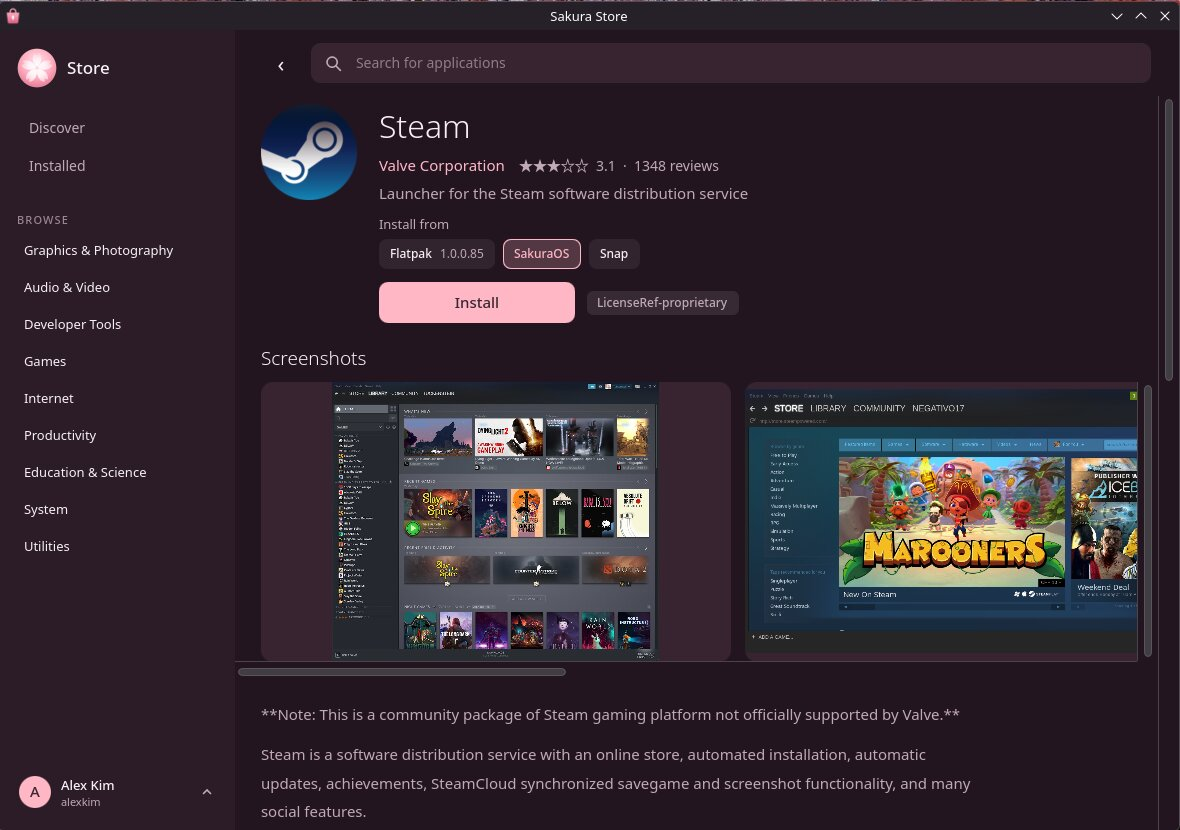
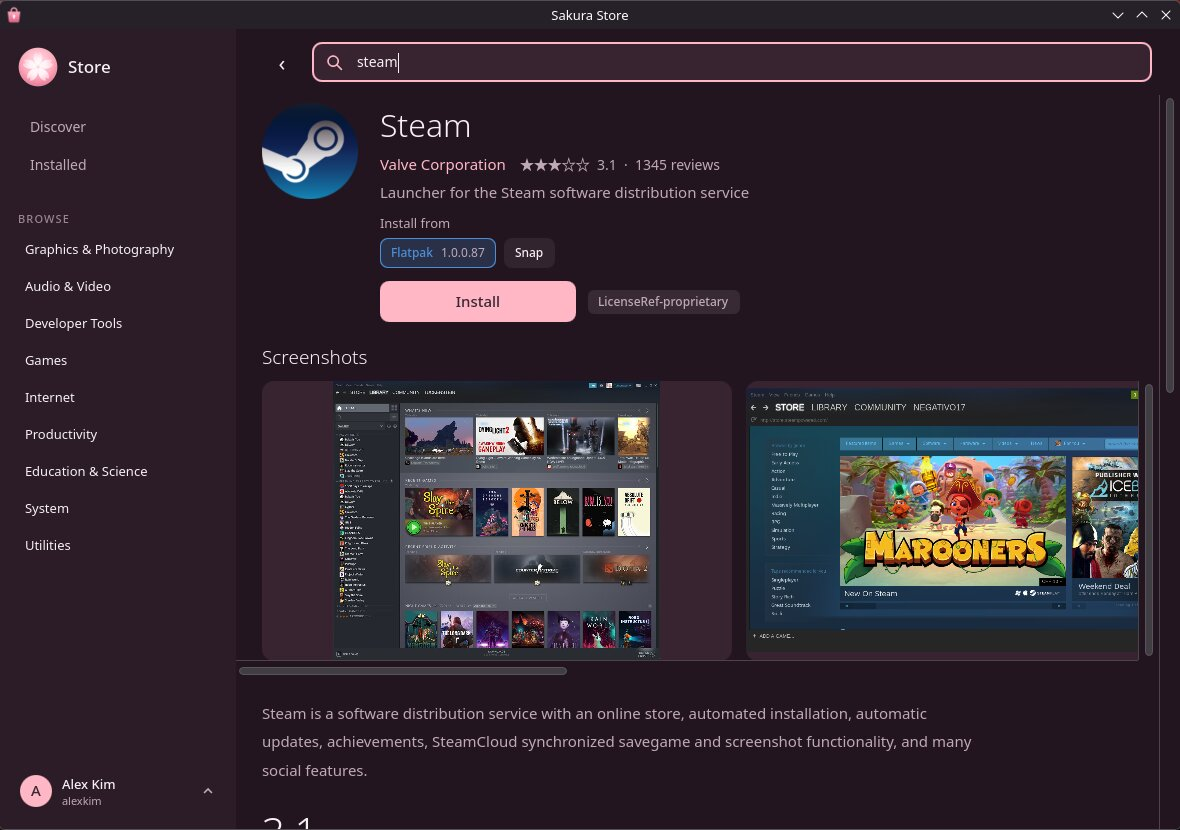
Store: one search row per app across Flathub and the Snap Store
Flathub keys an app by its reverse-DNS id and the Snap Store by a bare name,
so Steam, Spotify, VLC and every other app published in both were listed
twice. Rows now join on display name when one side has no id; two apps that
both have one stay apart. The wiki's Steam screenshot shows the store as it
now is: Flatpak selected, Snap beside it.

diff --git a/site/docs/store.html b/site/docs/store.html
@@ -25,8 +25,8 @@
 
 <h2>Where applications come from</h2>
 <figure>
-  <img src="/img/store-app-page.jpg" alt="Steam's page in the App Store, with Install from showing Flatpak, SakuraOS and Snap" width="1180" height="830" loading="lazy">
-  <figcaption>An application available from three sources. The selected one is highlighted.</figcaption>
+  <img src="/img/store-app-page.jpg" alt="Steam's page in the App Store, with Install from showing Flatpak, selected, and Snap" width="1180" height="830" loading="lazy">
+  <figcaption>An application available from two sources. The selected one is highlighted.</figcaption>
 </figure>
 <div class="tablewrap"><table>
   <thead><tr><th>Source</th><th>What it is</th></tr></thead>
